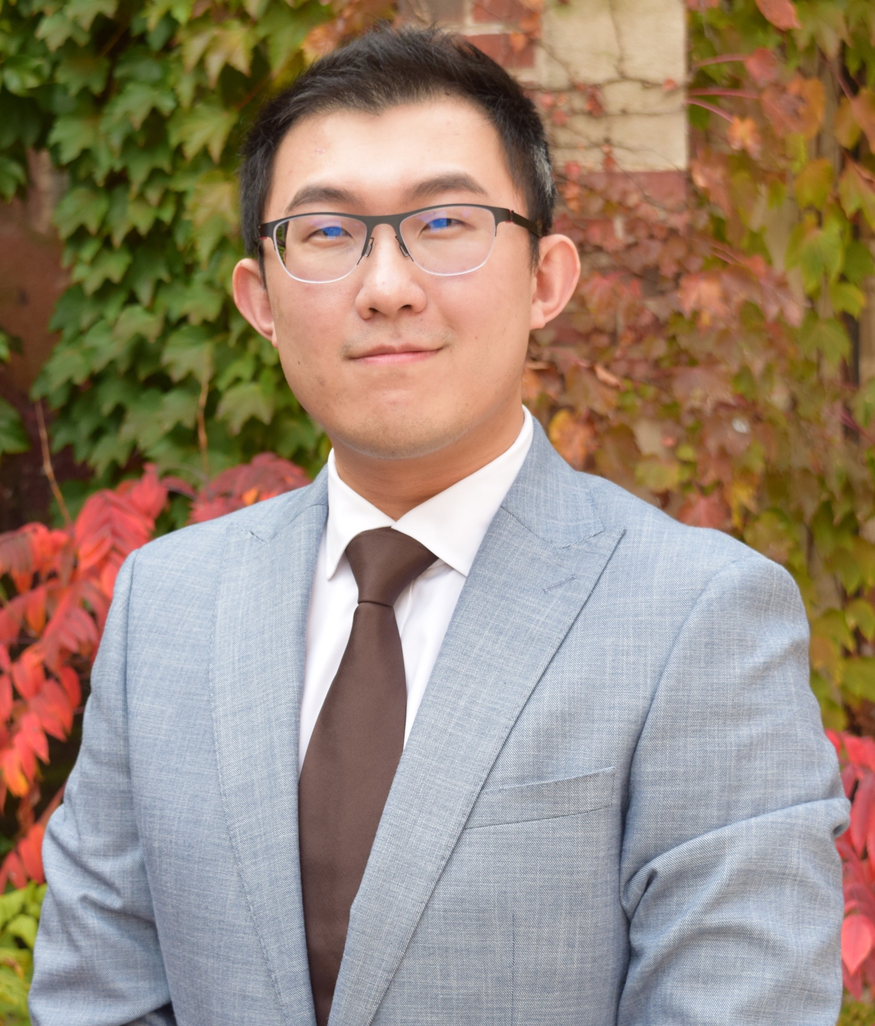
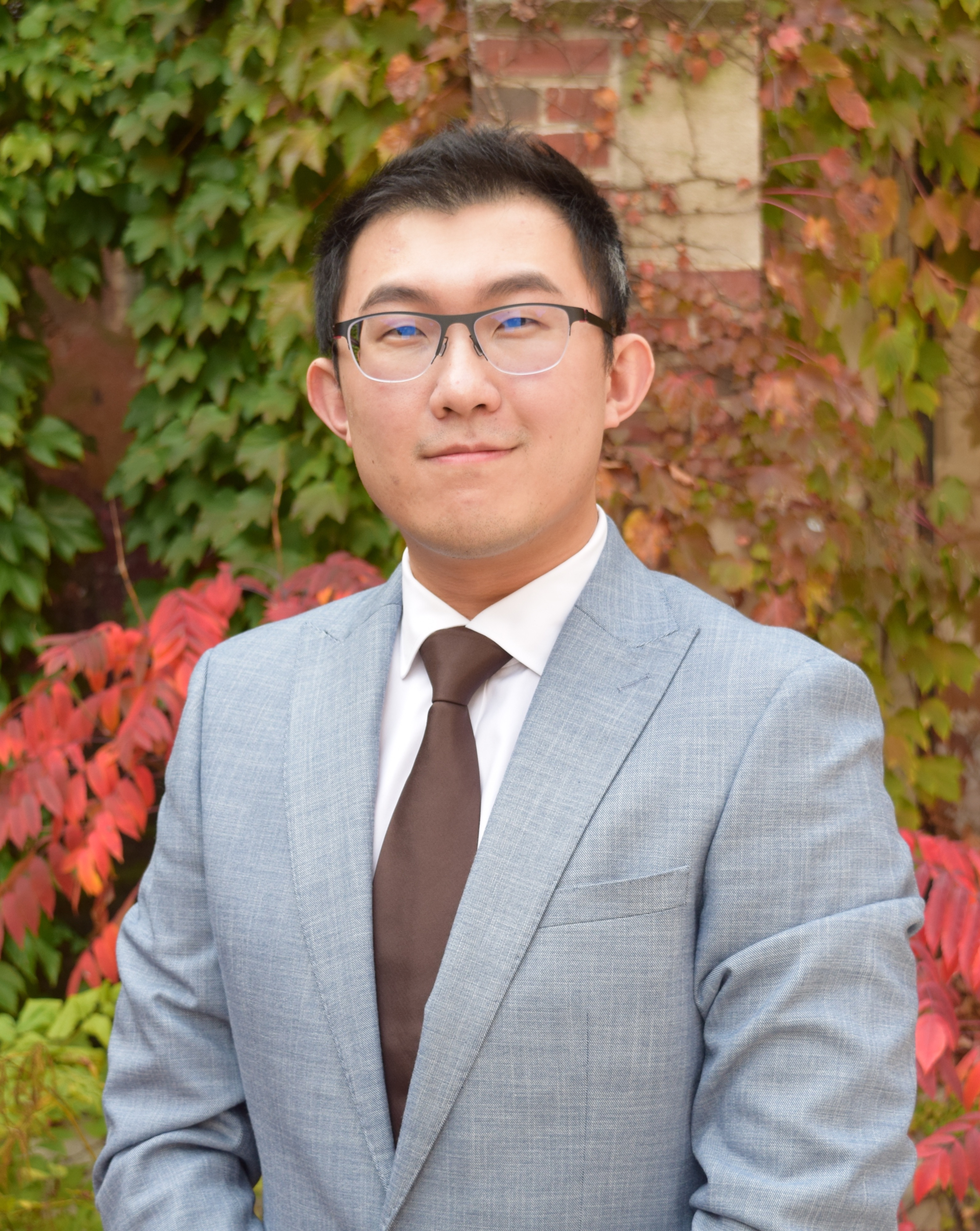
cut right margins on photo

diff --git a/index.html b/index.html
@@ -7,7 +7,7 @@ layout: page
     <h1 id="home"></h1>
 
   <p><u></u></p>
-  <figure class = "image-left"><img  src="/assets/images/jobmarket_2.jpg" alt="bio image">
+  <figure class = "image-left"><img  src="/assets/images/jobmarket_4.jpg" alt="bio image">
     <div class="post-content">
       <p>I'm a Ph.D. candidate at the University of Chicago, Department of Economics. My research focuses on Macroeconomics, Market Structure, Advertising, and Firm Growth. </p>
 <p> Email: <a href="mailto:lunl@uchicago.edu">lunl@uchicago.edu</a></p>

diff --git a/css/style.scss b/css/style.scss
@@ -88,7 +88,7 @@ ul, ol, dl, figure,
  * Images
  */
 img {
-    max-width: 40%;
+    max-width: 50%;
     float:right;
     vertical-align: middle;
     margin-right: 0em;
